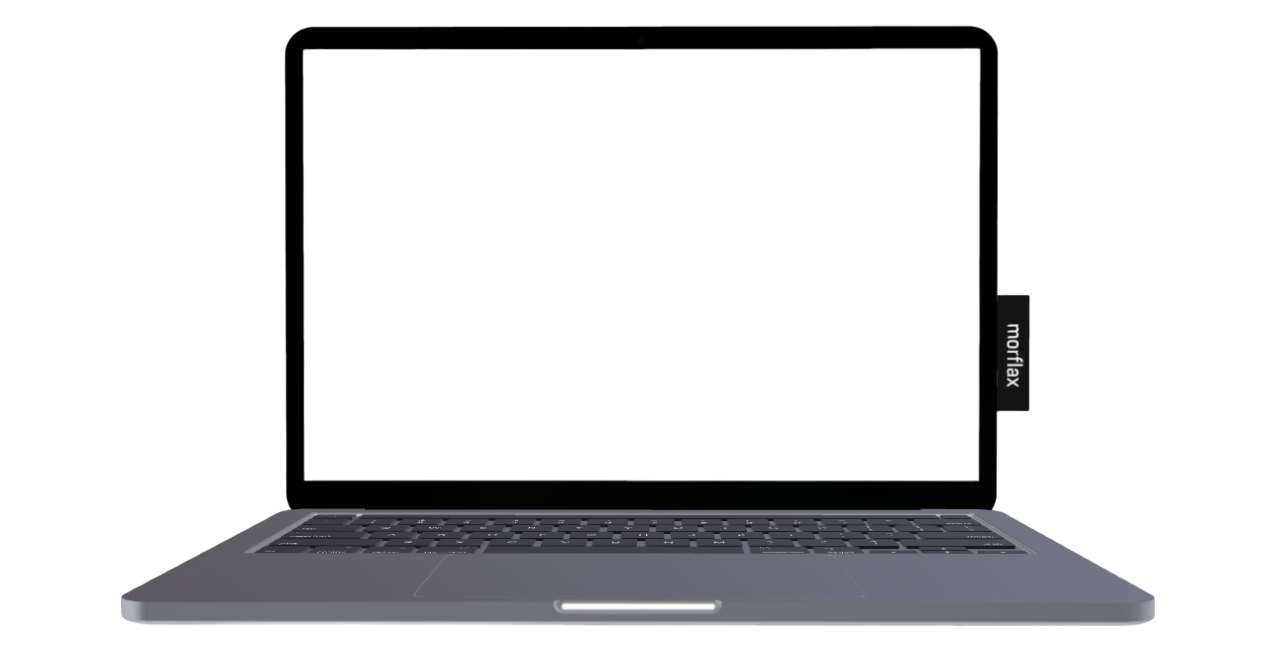
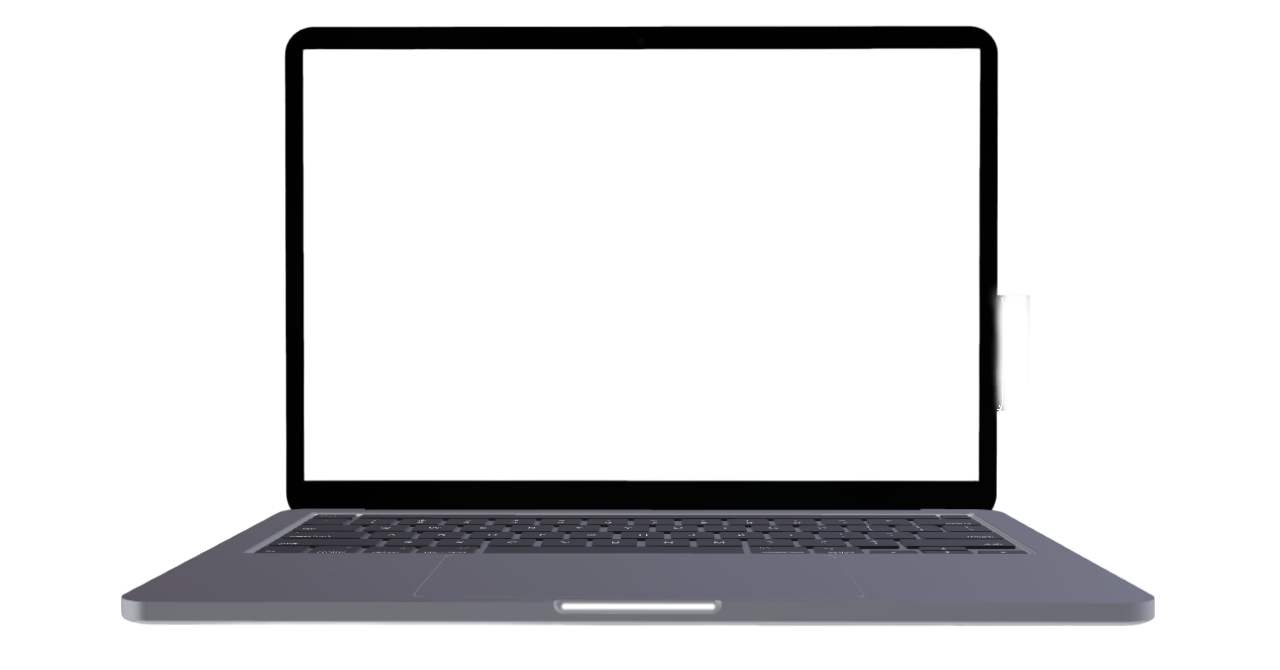
style(herocomponent): added transparent gradient to the hero image

Changed region(s): [[0.75, 0.4179, 0.8125, 0.6269]]

diff --git a/apps/topfolio/src/app/hero-component/hero-component.tsx b/apps/topfolio/src/app/hero-component/hero-component.tsx
@@ -15,7 +15,7 @@ export function HeroComponent(props: HeroComponentProps) {
     <div
       className={styles['container']}
       style={{
-        backgroundImage: `url(${
+        backgroundImage: `linear-gradient(transparent 60%, var(--primary-background)),url(${
           userDetails.portfolio.hero_image || mockUserState.portfolio.hero_image
         })`,
       }}

diff --git a/apps/topfolio/src/app/hero-component/hero-component.module.css b/apps/topfolio/src/app/hero-component/hero-component.module.css
@@ -6,6 +6,7 @@
   padding: 2em;
   background-size: cover;
   font-size: 1.3em;
+
 }
 .container h2 {
   font-size: 1.5em
@@ -17,7 +18,8 @@
   width: 70%;
 }
 .box {
-
+  width: 10em;
+  height: 10em;
   display: flex;
   justify-content: center;
   align-items: center;
